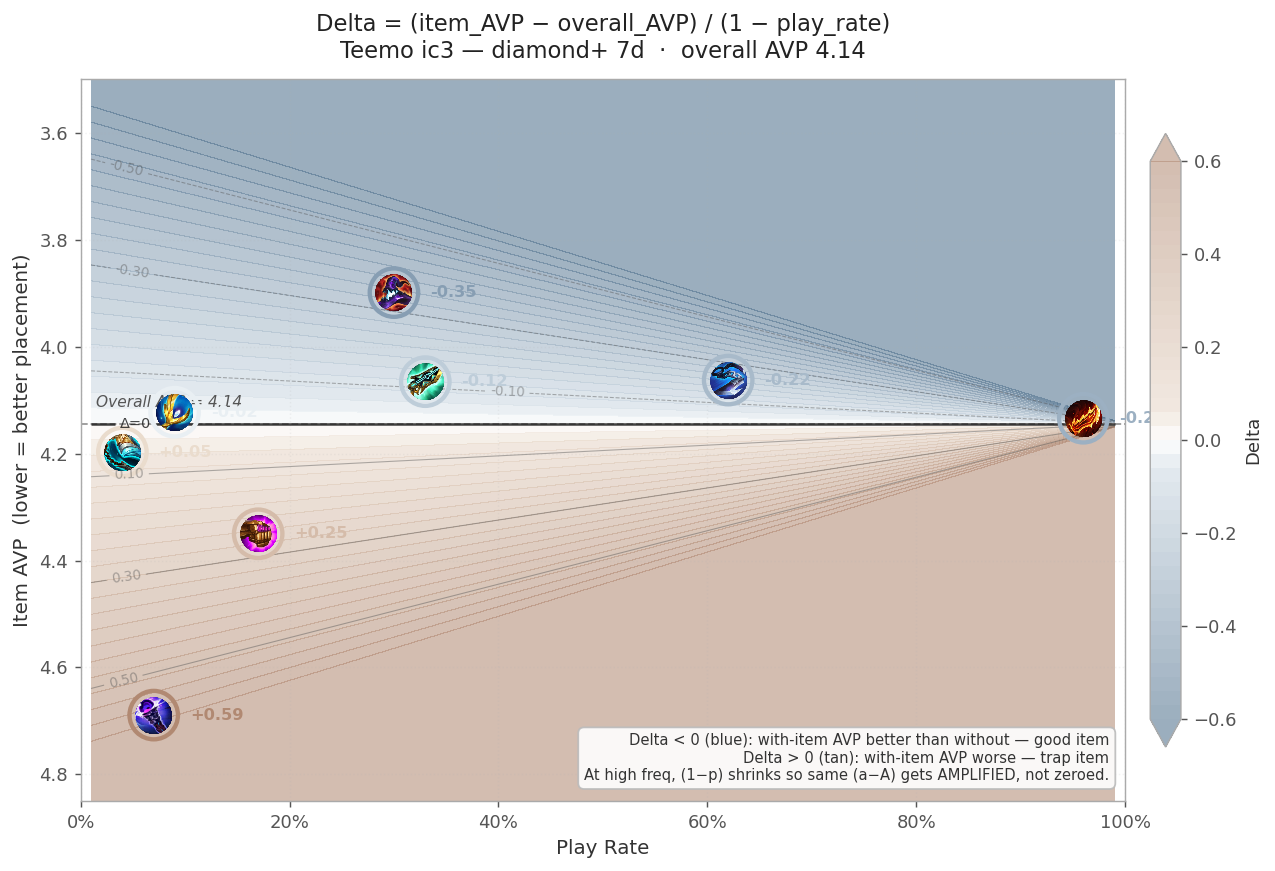
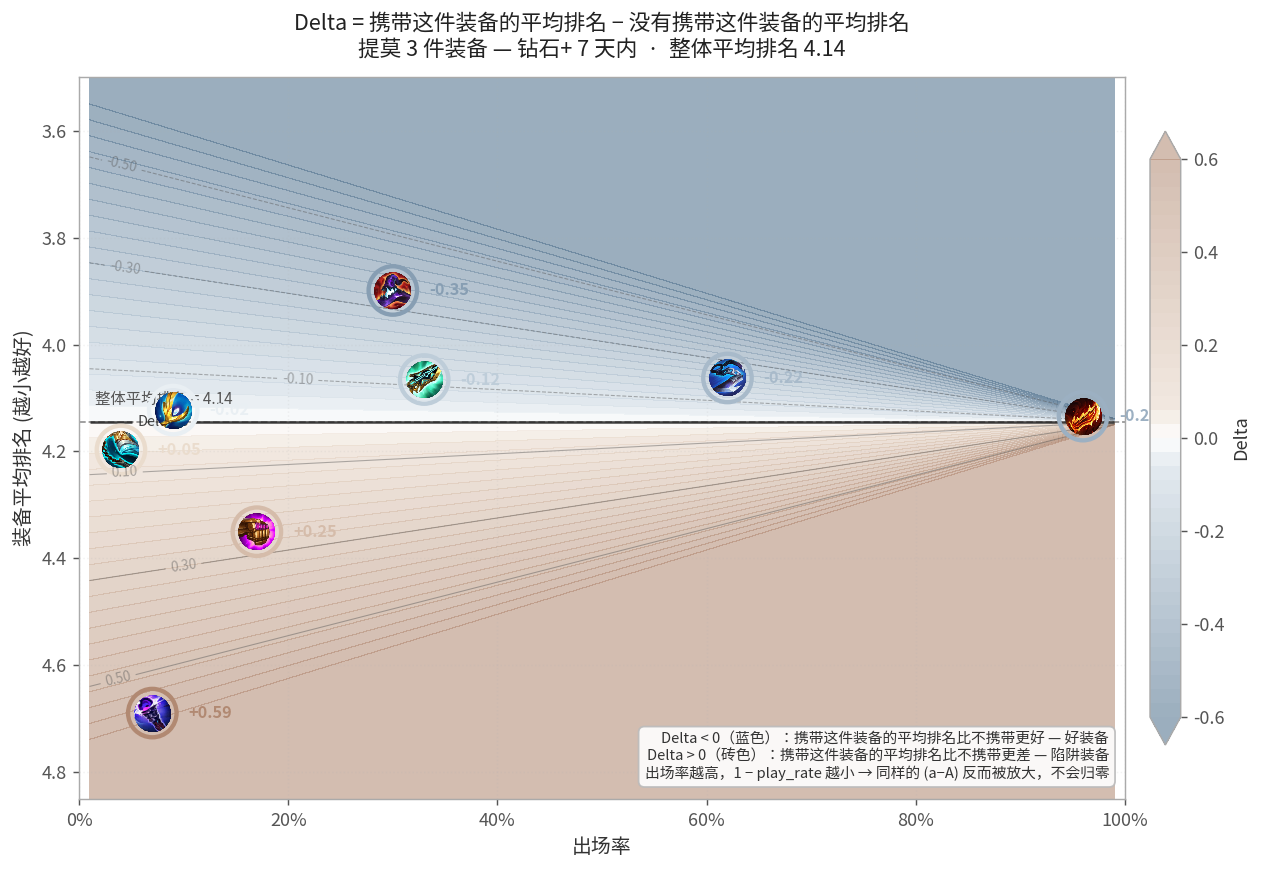
chinese chart labels + rewrite Chapter 1 with w/ w/o notation
Charts:
- Use Noto Sans CJK font (registered explicitly to bypass cache miss)
- Title formula in Chinese: "Delta = 携带这件装备的平均排名 − 没有携带这件装备的平均排名"
- Subtitle: "提莫 3 件装备 — 钻石+ 7 天内 · 整体平均排名 4.14"
- Note box, axis labels, isoline annotations all in Chinese
- "必要性" instead of "Necessity" everywhere

Article Chapter 1:
- Start from intuition (有/没有这件装备的两堆局), not jump straight to p
- Replace `p, a, A` with `freq, w/, A` notation throughout
- Definitions presented as a table before the algebra
- "必要性" used instead of "Necessity" in body and headers

via [HAPI](https://hapi.run)

Changed region(s): [[0.0, 0.093, 0.9881, 0.961], [0.247, 0.0, 0.7102, 0.093], [0.4323, 0.961, 0.5249, 0.992]]

diff --git a/wiki/content/experiments/2026-05-12-delta-necessity-myth.md b/wiki/content/experiments/2026-05-12-delta-necessity-myth.md
@@ -1,11 +1,11 @@
-# Experiment: AVP / Delta / Necessity 三指标的数学结构与「装备越必要 Delta 越接近 0」的误解
+# Experiment: AVP / Delta / 必要性 三指标的数学结构与「装备越必要 Delta 越接近 0」的误解
 **Status**: 🧪 draft
 **Date**: 2026-05-12
 **Module**: 2
 
 > **数据范围**：本文所有数据均为 **diamond+ rank、过去 7 天**，覆盖 challenger / GM / master / diamond 四档。
-> **AVP 来源**：本文表格里的 `Games / Freq / AVP / w/o` 都来自 MetaTFT API 的原始 `placement_count`（你也可以在 MetaTFT 网页同样 filter 下看到一致数值）。
-> **Delta / Necessity**：从原始 AVP 用公式 `Δ=(a−A)/(1−p)`、`N=p/(1−p)·(A−a)` 重算 —— 不直接读取任何网站显示列。
+> **AVP 来源**：本文表格里的 `Games / Freq / w/ / w/o` 都来自 MetaTFT API 的原始 `placement_count`（你也可以在 MetaTFT 网页同样 filter 下看到一致数值）。
+> **Delta / 必要性**：从原始 AVP 用公式重算 —— 不直接读取任何网站显示列。
 
 ---
 
@@ -17,30 +17,56 @@
 
 这个论断常被拿来「劝诫」初学者：「别看 Guinsoo 的 Delta 不大，这个装备就是核心，Delta 接近 0 才是它必要的证据」。但仔细推敲，这个论断**无论数学上还是直觉上都不成立**。
 
-本文用 **重装提莫（Teemo ic3）** 的真实数据 + 两张等高线图来解构 AVP、Delta、Necessity 三个指标，并直接反驳上述误解。顺带回答另一个常见问题：为什么 Necessity 比 Delta 更适合做「阵容核心装备」的排名。
+本文用 **重装提莫（Teemo ic3）** 的真实数据 + 两张等高线图来解构 AVP、Delta、必要性 三个指标，并直接反驳上述误解。顺带回答另一个常见问题：为什么必要性比 Delta 更适合做「阵容核心装备」的排名。
 
 最后还会附一章关于「不同数据网站显示的 Delta 列对不上」的发现 —— 这是另一个独立问题，给读者一个实用的工作建议。
 
 ---
 
-## Chapter 1: 三个指标的数学关系
+## Chapter 1: 三个指标 — 从「有没有这件装备」开始
 
-设 `p = play_rate`、`a = item_AVP`、`A = overall_AVP`。
+考虑一件具体的装备（比如 Teemo 身上的 Guinsoo's Rageblade）。把所有的局分成两堆：
 
-把"with 这个装备的局"和"without 这个装备的局"看作 overall 的两个互补子集，由权重平均的恒等式可以解出：
+- **w/** ：携带这件装备的局，平均排名记作 `w/`
+- **w/o**：没有携带这件装备的局，平均排名记作 `w/o`
+
+再加两个常用量：
+
+- **freq**：携带这件装备的局占整体的比例（出场率）
+- **A**：整体（所有局）的平均排名
+
+整体平均排名是两堆按出场率加权的平均：
 
 ```
-w/o_AVP   = (A − p × a) / (1 − p)
+A = freq · w/  +  (1 − freq) · w/o
+```
 
-Delta     = a − w/o = (a − A) / (1 − p)        负数 = 好
-Necessity = w/o − A = p / (1 − p) × (A − a)    正数 = 重要
+这个恒等式可以反解出 `w/o`（你也可以在数据网站手动加 "exclude this item" filter 直接读 `w/o`，两边会对得上）：
+
+```
+w/o = (A − freq · w/) / (1 − freq)
+```
+
+三个指标的定义：
+
+| 指标 | 定义 | 解读 |
+|---|---|---|
+| **AVP** | `w/`（直接就是「携带这件装备的平均排名」） | 越小越好 |
+| **Delta** | `w/ − w/o` | 「携带 vs 不携带」的差，**负数 = 好** |
+| **必要性 (Necessity)** | `w/o − A` | 「拿掉这件装备整体会变差多少」，**正数 = 重要** |
+
+把 `w/o` 的表达式代回去，可以得到两个等价改写（后面会用到）：
+
+```
+Delta     = w/ − w/o = (w/ − A) / (1 − freq)
+必要性    = w/o − A  = freq / (1 − freq) × (A − w/)
 ```
 
 两个等价改写很关键：
 
-- **Delta 是 (a−A) 的「Leverage 放大」**：分母 `(1−p)` 越小（freq 越高），同样的 `(a−A)` 被放大得越多。
-- **Necessity 是 (A−a) 的「Frequency 加权」**：用 `p/(1−p)` 加权，freq 越高权重越大。
-- 两者代数关系：`Necessity = −p × Delta`。它们其实是**同一个原始量** `(A−a)` 的两种不同放大方式。
+- **Delta 是 (w/ − A) 的「Leverage 放大」**：分母 `(1 − freq)` 越小（freq 越高），同样的 `(w/ − A)` 被放大得越多。
+- **必要性是 (A − w/) 的「Frequency 加权」**：用 `freq / (1 − freq)` 加权，freq 越高权重越大。
+- 两者代数关系：`必要性 = − freq × Delta`。它们其实是**同一个原始量** `(A − w/)` 的两种不同放大方式。
 
 下面整段实验都会回到这两个公式。
 
@@ -65,9 +91,9 @@ Unit('TFT17_Teemo', item_min=3, item_max=3)
 
 ## Chapter 3: Teemo ic3 物品数据
 
-按 Necessity 排序的 top 10（normal items + 主要 emblem，截掉极低 freq）：
+按必要性排序的 top 10（normal items + 主要 emblem，截掉极低 freq）：
 
-| Item | Games | Freq | AVP (a) | w/o | Δ | Necessity |
+| Item | Games | Freq | w/ | w/o | Delta | 必要性 |
 |---|---:|---:|---:|---:|---:|---:|
 | **Guinsoo's Rageblade** | 167,799 | **96%** | 4.134 | 4.378 | −0.244 | **+0.234** |
 | Giant Slayer | 107,877 | 62% | 4.063 | 4.275 | −0.213 | +0.131 |
@@ -79,28 +105,28 @@ Unit('TFT17_Teemo', item_min=3, item_max=3)
 | Striker's Flail | 7,834 | 4% | 4.197 | 4.142 | +0.055 | −0.002 |
 | Vanguard Emblem | 4,869 | 3% | 4.264 | 4.141 | +0.123 | −0.003 |
 
-> 验算 Guinsoo 行：`a=4.134, A=4.144, p=167799/175244=0.957`，`w/o=(4.144−0.957·4.134)/0.043=4.378`，`Δ=4.134−4.378=−0.244`，`N=4.378−4.144=+0.234`。可以自己在 MetaTFT 用同样 filter 验：`Games`、`Freq`、`AVP` 三列肉眼一致；`w/o` 你可以**手动加 "no Guinsoo's Rageblade" filter** 读出 ~4.38。
+> 验算 Guinsoo 行：`w/ = 4.134, A = 4.144, freq = 167799/175244 = 0.957`，`w/o = (4.144 − 0.957·4.134)/0.043 = 4.378`，`Delta = 4.134 − 4.378 = −0.244`，`必要性 = 4.378 − 4.144 = +0.234`。可以自己在 MetaTFT 用同样 filter 验：`Games / Freq / AVP` 三列肉眼一致；`w/o` 你可以**手动加 "no Guinsoo's Rageblade" filter** 读出 ~4.38。
 
 两个先放在这里的观察：
 
 - **Δ 最负的是 Rabadon's Deathcap**（−0.350，30% freq），不是 Guinsoo。
-- **Necessity 最高的是 Guinsoo**（+0.234），远超第二名 Giant Slayer（+0.131）。
+- **必要性最高的是 Guinsoo**（+0.234），远超第二名 Giant Slayer（+0.131）。
 
-也就是说，Δ 和 Necessity 对 top 1 的判断**完全不一样**。这是后面讨论 Necessity 优势的关键案例。
+也就是说，Δ 和必要性对 top 1 的判断**完全不一样**。这是后面讨论必要性优势的关键案例。
 
 ---
 
-## Chapter 4: 两张等高线图 — 看 Delta 和 Necessity 的几何形状
+## Chapter 4: 两张等高线图 — 看 Delta 和必要性的几何形状
 
-把 (play_rate, item_AVP) 画成平面，背景填的是 metric 在该平面上的等值线（A 固定为 4.14），点是上表里的真实装备。
+把 (出场率, w/) 画成平面，背景填的是 metric 在该平面上的等值线（A 固定为 4.14），点是上表里的真实装备。
 
-### Necessity Landscape
+### 必要性 Landscape
 
-![Necessity Landscape](/experiments/2026-05-12-necessity-landscape.png)
+![必要性 Landscape](/experiments/2026-05-12-necessity-landscape.png)
 
 观察：
-- 等高线在低/中 freq 区域很缓，但接近 freq=1 时**急速向右上拉升** —— 因为 `p/(1−p)` 在 p→1 时趋向无穷。
-- 这就是为什么 Guinsoo（freq 96%、AVP 4.13 vs A=4.14，gap 只有 0.01）仍然能排到 Necessity 第一：杠杆系数 `0.96/0.04 = 24×` 把那 0.01 的 gap 放大成 +0.234。
+- 等高线在低/中 freq 区域很缓，但接近 freq=1 时**急速向右上拉升** —— 因为 `freq/(1−freq)` 在 freq→1 时趋向无穷。
+- 这就是为什么 Guinsoo（freq 96%、w/ 4.13 vs A=4.14，gap 只有 0.01）仍然能排到必要性第一：杠杆系数 `0.96/0.04 = 24×` 把那 0.01 的 gap 放大成 +0.234。
 - Rabadon's Deathcap（freq 30%、gap 0.245，是 Guinsoo 的 ~24 倍）只有 +0.104 —— 因为权重系数才 `0.30/0.70 ≈ 0.43×`。
 
 ### Delta Landscape
@@ -108,11 +134,11 @@ Unit('TFT17_Teemo', item_min=3, item_max=3)
 ![Delta Landscape](/experiments/2026-05-12-delta-landscape.png)
 
 观察：
-- 等高线在 freq < 50% 的区域几乎是水平的：Δ ≈ a − A，play_rate 不太影响。
-- 当 freq > 80% 后，等高线急速发散 —— 因为 `1/(1−p)` 在这里也趋向无穷。也就是说，**高 freq 区域同样的 (a−A) 被 Δ 放大、不是缩小**。
-- 这两张图共用相同的 (p, a) 平面，但 metric 几何形状完全不同：Necessity 在 p→1 沿 (A−a) 一侧爆炸，Δ 在 p→1 沿 (a−A) 另一侧爆炸。两者都不会在 p→1 时归零。
+- 等高线在 freq < 50% 的区域几乎是水平的：Δ ≈ w/ − A，play_rate 不太影响。
+- 当 freq > 80% 后，等高线急速发散 —— 因为 `1/(1−freq)` 在这里也趋向无穷。也就是说，**高 freq 区域同样的 (w/ − A) 被 Δ 放大、不是缩小**。
+- 这两张图共用相同的 (freq, w/) 平面，但 metric 几何形状完全不同：必要性在 freq→1 沿 (A − w/) 一侧爆炸，Δ 在 freq→1 沿 (w/ − A) 另一侧爆炸。两者都不会在 freq→1 时归零。
 
-> Δ=0 的等高线 **是水平的、不依赖 p**：当且仅当 `a = A` 时 Δ=0。换句话说，"Δ→0" 只能由 "item AVP 等于 overall AVP" 引起，不能由 "freq 高" 引起。
+> Δ=0 的等高线 **是水平的、不依赖 freq**：当且仅当 `w/ = A` 时 Δ=0。换句话说，"Δ→0" 只能由 "携带这件装备的平均排名等于整体平均排名" 引起，不能由 "freq 高" 引起。
 
 ---
 
@@ -120,11 +146,11 @@ Unit('TFT17_Teemo', item_min=3, item_max=3)
 
 最简洁的反驳：**Guinsoo 在 Teemo ic3 freq 96%，公式 Δ = −0.244，不是 0**。
 
-如果 freq 高真的能强制 Δ→0，Guinsoo 这个 96% 的极端例子早该读出 0 附近的数。但代入公式 `Δ = (4.134−4.144)/0.043 = −0.244`，被 23× 杠杆放大着。
+如果 freq 高真的能强制 Δ→0，Guinsoo 这个 96% 的极端例子早该读出 0 附近的数。但代入公式 `Δ = (4.134 − 4.144)/0.043 = −0.244`，被 23× 杠杆放大着。
 
 让我们再看其他几个高 freq 装备的真实 Δ（diamond+ 7d，公式重算）：
 
-| Comp | Top freq item | Freq | AVP | Δ (公式) | Necessity |
+| Comp | Top freq item | Freq | w/ | Δ (公式) | 必要性 |
 |---|---|---:|---:|---:|---:|
 | Teemo ic3 | Guinsoo's Rageblade | 96% | 4.134 | **−0.24** | +0.234 |
 | Lulu Reroll | Jeweled Gauntlet | 88% | 4.443 | **−0.22** | +0.193 |
@@ -139,43 +165,43 @@ Unit('TFT17_Teemo', item_min=3, item_max=3)
 
 ## Chapter 6: 神话错在哪里 — 数学诊断
 
-「freq → 1 时 Δ → 0」这个说法的**唯一**成立条件是 `a → A`。代入公式：
+「freq → 1 时 Δ → 0」这个说法的**唯一**成立条件是 `w/ → A`。代入公式：
 
 ```
-Δ = (a − A) / (1 − p)
+Δ = (w/ − A) / (1 − freq)
 ```
 
-要让 Δ → 0，需要分子 `(a − A) → 0` 比分母 `(1 − p) → 0` 更快。
+要让 Δ → 0，需要分子 `(w/ − A) → 0` 比分母 `(1 − freq) → 0` 更快。
 
-什么时候 `a = A`？当 with-this-item 子集和 overall 子集**有完全相同的 AVP 分布**。这意味着这件装备**对最终名次没有任何 lift** —— with 和 without 两组玩家的胜率完全一样。
+什么时候 `w/ = A`？当**携带这件装备的局 AVP 和整体 AVP 相同**。这意味着这件装备**对最终名次没有任何 lift** —— 携带和不携带两组玩家的胜率完全一样。
 
 直觉版本：
 
 > 「装备 freq 接近 1 但 Δ 接近 0」**不是装备必要的特征，而是装备无关紧要的特征**。
 >
-> 因为如果绝大多数局都拿到了，但 with 组和 without 组的 AVP 几乎一样 —— 那这件装备到底贡献了什么？答案是：什么都没贡献。它只是"恰好被普遍持有"，但对结果没影响。
+> 因为如果绝大多数局都拿到了，但 with 组和 without 组的平均排名几乎一样 —— 那这件装备到底贡献了什么？答案是：什么都没贡献。它只是"恰好被普遍持有"，但对结果没影响。
 
-社区直觉的错误在于把 **"装备就是阵容本身" 解读成 "with = overall"**。但事实是即使一件装备真的是阵容核心，**没拿到它的局会显著掉名次** —— 也就是 `w/o > A`，于是 `(a − A) < 0` 仍然成立，Δ 不会归零。Guinsoo 在 Teemo ic3 里的 4% 缺货局 AVP 大约是 `4.14 + 0.234 = 4.38`（你可以在 MetaTFT 加 `no Guinsoo` filter 直接验证），明显比 baseline 4.14 差 —— 这正是 Guinsoo 必要的证据，而不是 Δ 接近 0 是它必要的证据。
+社区直觉的错误在于把 **"装备就是阵容本身" 解读成 "携带 = 整体"**。但事实是即使一件装备真的是阵容核心，**没拿到它的局会显著掉名次** —— 也就是 `w/o > A`，于是 `(w/ − A) < 0` 仍然成立，Δ 不会归零。Guinsoo 在 Teemo ic3 里的 4% 缺货局 AVP 大约是 `4.14 + 0.234 = 4.38`（你可以在 MetaTFT 加 `no Guinsoo` filter 直接验证），明显比 baseline 4.14 差 —— 这正是 Guinsoo 必要的证据，而不是 Δ 接近 0 是它必要的证据。
 
 ---
 
-## Chapter 7: Necessity vs Delta — 排名分歧的案例
+## Chapter 7: 必要性 vs Delta — 排名分歧的案例
 
 ### Teemo ic3 里 top 1 完全相反
 
 | 排名指标 | top 1 | 数值 | freq |
 |---|---|---|---|
 | Δ（最负） | Rabadon's Deathcap | −0.350 | 30% |
-| Necessity（最大） | Guinsoo's Rageblade | +0.234 | 96% |
+| 必要性（最大） | Guinsoo's Rageblade | +0.234 | 96% |
 
 **两个指标都没有错**，他们在回答不同的问题：
 
 | 指标 | 在回答的问题 |
 |---|---|
 | Δ（最负） | 「在某一局里，碰巧拿到这件装备能让我提升多少名次？」（per-game lift） |
-| Necessity（最大） | 「如果整个 metaverse 都不存在这件装备，整体 AVP 会差多少？」（comp-level dependence） |
+| 必要性（最大） | 「如果整个 metaverse 都不存在这件装备，整体平均排名会差多少？」（comp-level dependence） |
 
-对玩家的 prio 决策来说，Necessity 的答案更接近你真正想要的：
+对玩家的 prio 决策来说，必要性的答案更接近你真正想要的：
 - Guinsoo 是 Teemo 的核心 BIS（攻速锁定 reroll 必出），没有它阵容崩塌；优先 slam。
 - Rabadon's Deathcap 单件 lift 很高（−0.35），但它**不是 prio**，因为只有 30% 玩家拿得到（需要 BF + Rod，凑卡难）。它高 lift 部分原因是：能完成 Dcap 的玩家通常已经把核心装备先做完了（survivorship）。
 
@@ -183,26 +209,26 @@ Unit('TFT17_Teemo', item_min=3, item_max=3)
 
 Teemo ic3 数据里：
 
-| Item | Freq | AVP | Δ | Necessity |
+| Item | Freq | w/ | Δ | 必要性 |
 |---|---:|---:|---:|---:|
 | Statikk Shiv | 2% | 3.771 | **−0.383** | +0.009 |
 
-Statikk Shiv 的 Δ（−0.38）几乎跟 Rabadon's Deathcap 一样负，但 Necessity 只有 +0.009 —— 几乎是 0。Δ 看起来像「Statikk Shiv 是隐藏神装」，但 Necessity 直接告诉你「99% 玩家不需要这件，可以无视」。
+Statikk Shiv 的 Δ（−0.38）几乎跟 Rabadon's Deathcap 一样负，但必要性只有 +0.009 —— 几乎是 0。Δ 看起来像「Statikk Shiv 是隐藏神装」，但必要性直接告诉你「99% 玩家不需要这件，可以无视」。
 
-这就是 Necessity 相比 Δ 的另一个核心优势：**抗 carousel/emblem survivorship**。Δ 把低 freq 高 lift 的装备捧上天，Necessity 通过 freq 加权直接把它压成 ~0。如果按 Δ 排名 prio 装备，会被 Statikk Shiv / 各种 emblem / Tactician's Crown 等根本拿不到的东西误导。
+这就是必要性相比 Δ 的另一个核心优势：**抗 carousel/emblem survivorship**。Δ 把低 freq 高 lift 的装备捧上天，必要性通过 freq 加权直接把它压成 ~0。如果按 Δ 排名 prio 装备，会被 Statikk Shiv / 各种 emblem / Tactician's Crown 等根本拿不到的东西误导。
 
 ---
 
-## Chapter 8: Necessity 也不是终极答案
+## Chapter 8: 必要性也不是终极答案
 
-需要承认 Necessity 的几个局限，以避免它被神化成另一个误解的源头：
+需要承认必要性的几个局限，以避免它被神化成另一个误解的源头：
 
-1. **Necessity 假设 freq 是 lift 的合理代理**。但 freq 高也可能是 selection 的产物 —— 拿到 Guinsoo 的 96% 玩家本来就是「够稳的局 + 够熟的玩家」，without 组 4% 是「拿不到的非典型局」。Necessity 不区分这两种因果。
-2. **Necessity 受 baseline AVP 影响**：同一件装备在不同 condition（filter 紧/松、不同 comp）下绝对值不同，虽然 ranking 通常稳定（参见 [[experiments/2026-04-22-cross-validation-vex-nova95]] Spearman 0.993）。
-3. **niche-but-strong 装备会被压制**：低 freq 装备 Necessity 总是低，但不一定是它差，可能只是少有人 prio。本文 Rabadon's Deathcap 和 Statikk Shiv 都是潜在例子。
-4. **tftable 等工具有更进阶的 debiasing**（IC3 weighting、conditional baseline 等），Necessity 只是其中较易解释的一步。本文不展开。
+1. **必要性假设 freq 是 lift 的合理代理**。但 freq 高也可能是 selection 的产物 —— 拿到 Guinsoo 的 96% 玩家本来就是「够稳的局 + 够熟的玩家」，without 组 4% 是「拿不到的非典型局」。必要性不区分这两种因果。
+2. **必要性受 baseline AVP 影响**：同一件装备在不同 condition（filter 紧/松、不同 comp）下绝对值不同，虽然 ranking 通常稳定（参见 [[experiments/2026-04-22-cross-validation-vex-nova95]] Spearman 0.993）。
+3. **niche-but-strong 装备会被压制**：低 freq 装备必要性总是低，但不一定是它差，可能只是少有人 prio。本文 Rabadon's Deathcap 和 Statikk Shiv 都是潜在例子。
+4. **tftable 等工具有更进阶的 debiasing**（IC3 weighting、conditional baseline 等），必要性只是其中较易解释的一步。本文不展开。
 
-实践原则：**Necessity 适合回答「阵容核心装备」，Δ 适合回答「per-game 边际」，两者结合 + Build Analysis 才是完整答案**。详见 [[methods/build-analysis]]。
+实践原则：**必要性适合回答「阵容核心装备」，Δ 适合回答「per-game 边际」，两者结合 + Build Analysis 才是完整答案**。详见 [[methods/build-analysis]]。
 
 ---
 
@@ -214,7 +240,7 @@ Statikk Shiv 的 Δ（−0.38）几乎跟 Rabadon's Deathcap 一样负，但 Nec
 
 | 数据源 | 显示的 Δ |
 |---|---:|
-| 我们 cli.py / 公式 `(a−A)/(1−p)` | **−0.24** |
+| 我们 cli.py / 公式 `(w/ − A)/(1 − freq)` | **−0.24** |
 | MetaTFT | **−0.09** |
 | DataTFT | **0.00** |
 | TacticsTools | **(待补)** |
@@ -233,7 +259,7 @@ Statikk Shiv 的 Δ（−0.38）几乎跟 Rabadon's Deathcap 一样负，但 Nec
 
 1. **手动加 "without this item" filter**（任何网站都支持）
 2. 读出 AVP，这就是真实的 `w/o`
-3. 用公式自己算：`Δ = a − w/o`
+3. 用公式自己算：`Δ = w/ − w/o`
 
 无论你用哪家网站做这个 filter 操作，得到的 `w/o` 应该都接近一致（因为是同一份原始数据）。然后公式 Δ 就是公式 Δ，不受任何显示算法干扰。
 
@@ -253,21 +279,21 @@ Statikk Shiv 的 Δ（−0.38）几乎跟 Rabadon's Deathcap 一样负，但 Nec
 
 | 论断 | 真相 |
 |---|---|
-| "freq 越接近 1，Δ 越接近 0 是必然" | **错**。Δ = (a−A)/(1−p)，freq 高反而**放大** Δ，不是缩小 |
-| "Δ 接近 0 是装备必要的标志" | **反过来**：Δ=0 等价于 a=A，这意味着这件装备对最终名次没有 per-game lift —— 是无关紧要的标志 |
-| "Necessity 只是 Δ 的换算，提供不了新信息" | 代数上是 `−p×Δ`，但 ranking 信息被 freq 重新加权后，更接近"阵容核心"的 player 直觉 |
-| "Δ 和 Necessity 哪个对" | 两者都对，回答不同的问题。Δ 答 per-game lift，Necessity 答 comp-level dependence |
+| "freq 越接近 1，Δ 越接近 0 是必然" | **错**。Δ = (w/ − A)/(1 − freq)，freq 高反而**放大** Δ，不是缩小 |
+| "Δ 接近 0 是装备必要的标志" | **反过来**：Δ=0 等价于 w/ = A，这意味着这件装备对最终名次没有 per-game lift —— 是无关紧要的标志 |
+| "必要性只是 Δ 的换算，提供不了新信息" | 代数上是 `−freq×Δ`，但 ranking 信息被 freq 重新加权后，更接近"阵容核心"的 player 直觉 |
+| "Δ 和必要性哪个对" | 两者都对，回答不同的问题。Δ 答 per-game lift，必要性答 comp-level dependence |
 | "看网站 Δ 列就行" | 高 freq 装备各家口径不同，需要手动 filter 验真实 w/o |
 
-数据先行，结论后到。下次有人说「这个装备 Δ 接近 0 是因为它必出」，请他给一个 a < A 但 (a−A)/(1−p) 趋近 0 的真实案例 —— 大概率给不出，因为这种"必出且无 lift"的装备在数据上几乎不存在。
+数据先行，结论后到。下次有人说「这个装备 Δ 接近 0 是因为它必出」，请他给一个 w/ < A 但 (w/ − A)/(1 − freq) 趋近 0 的真实案例 —— 大概率给不出，因为这种"必出且无 lift"的装备在数据上几乎不存在。
 
 ---
 
 ## Open Questions
 
-- [ ] Lulu / Bonk 等 comp 里能否找到 Δ 与 Necessity ranking 完全反向的情形（不仅是 top 1 不同，而是整个 top 5 翻转）？
-- [ ] tftable 的进阶 debiasing 在 Teemo ic3 上会把 Statikk Shiv 推到第几位？是否颠覆当前 Δ vs Necessity 的故事？
-- [ ] 当 condition 极紧（freq → 1）时，Necessity 和 Δ 都会被压缩，应当用什么标度去比较"压缩前后" rankings 的稳定度？
+- [ ] Lulu / Bonk 等 comp 里能否找到 Δ 与必要性 ranking 完全反向的情形（不仅是 top 1 不同，而是整个 top 5 翻转）？
+- [ ] tftable 的进阶 debiasing 在 Teemo ic3 上会把 Statikk Shiv 推到第几位？是否颠覆当前 Δ vs 必要性的故事？
+- [ ] 当 condition 极紧（freq → 1）时，必要性和 Δ 都会被压缩，应当用什么标度去比较"压缩前后" rankings 的稳定度？
 - [ ] 各数据网站 Δ 显示算法到底是什么？是否在不同 patch / sample size 下口径会变？
 
 ## Questions for Xing
@@ -280,7 +306,7 @@ Statikk Shiv 的 Δ（−0.38）几乎跟 Rabadon's Deathcap 一样负，但 Nec
 ## Sources / Cross-references
 - [[concepts/metrics]] — 三指标定义、play rate 作为 confidence signal
 - [[experiments/2026-04-21-vex-nova95-items]] — 之前的 Vex Nova 95 物品分析（5 metric 对比）
-- [[experiments/2026-04-22-cross-validation-vex-nova95]] — Necessity rank Spearman 0.993 跨数据源稳定
+- [[experiments/2026-04-22-cross-validation-vex-nova95]] — 必要性 rank Spearman 0.993 跨数据源稳定
 - [[concepts/biases]] — Survivorship bias、selection effect
 
 ---
